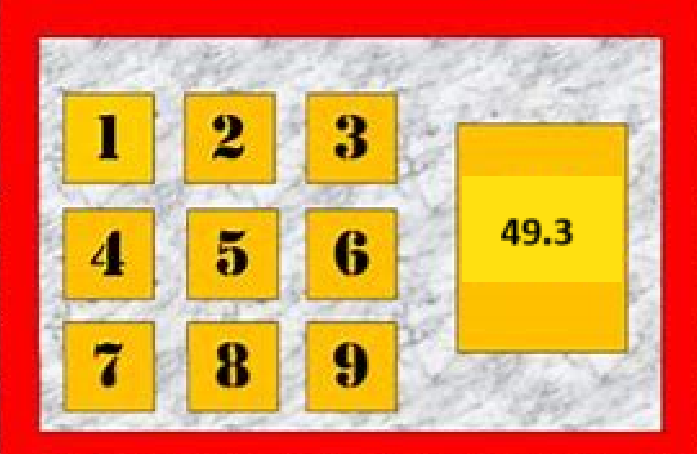
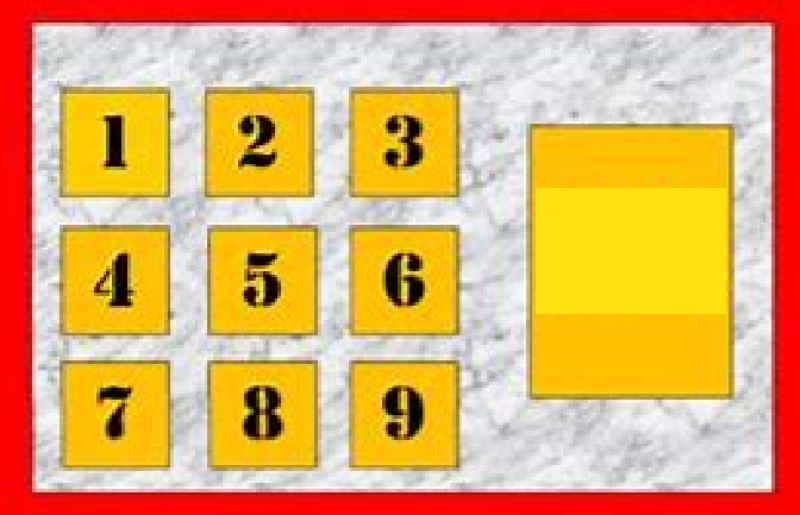
casifin

diff --git a/src/js/minijeu.js b/src/js/minijeu.js
@@ -11,14 +11,10 @@ export default class minijeu extends Phaser.Scene {
 }
 
   create() {
-    let image0 = this.add.image(800, 640, "img_num");
-    // ajout d'un texte distintcif  du niveau
-    this.add.text(400, 100, "Ouvrez la porte du Bunker", {
-      fontFamily: 'Georgia, "Goudy Bookletter 1911", Times, serif',
-      fontSize: "22pt"
-    });
+    let image0 = this.add.image(400, 300, "img_num");
+    
 
-let playButton = this.add.image(550, 320, "bouton_49.3").setInteractive();
+let playButton = this.add.image(600, 300, "bouton_49.3").setInteractive();
     playButton.on("pointerdown", () => {
       console.log("minijeu : retour vers niv2");
       this.scene.switch("niveau2");

diff --git a/src/index.js b/src/index.js
@@ -3,6 +3,7 @@ import selection from "/src/js/selection.js";
 import niveau1 from "/src/js/niveau1.js";
 import niveau2 from "/src/js/niveau2.js";
 import niveau3 from "/src/js/niveau3.js";
+import minijeu from "/src/js/minijeu.js";
 import règles from "/src/js/règles.js";
 
 // configuration générale du jeu
@@ -26,7 +27,7 @@ var config = {
       debug: true // permet de voir les hitbox et les vecteurs d'acceleration quand mis à true
     }
   },
-  scene: [selection, niveau1, niveau2, niveau3, règles]
+  scene: [selection, niveau1, niveau2, niveau3, règles,minijeu]
 };
 
 // création et lancement du jeu

diff --git a/src/js/niveau2.js b/src/js/niveau2.js
@@ -134,10 +134,9 @@ export default class niveau2 extends Phaser.Scene {
         console.log("niveau 3 : passage au niveau 3");
         this.scene.switch("niveau3");
       }
-      if (this.physics.overlap(this.player, this.cabine)) {
-        console.log("mini defi : passage au defi");
-        this.scene.switch("minijeu");
-      }
+      if (this.physics.overlap(this.player, this.cabine)) 
+        this.scene.start("minijeu");
+      
     }
   }
 
